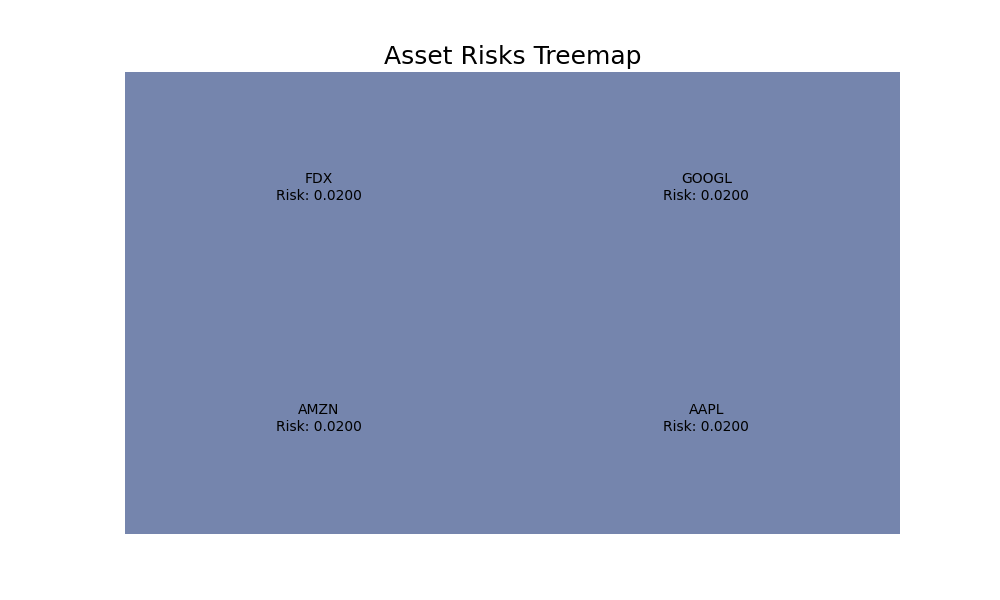
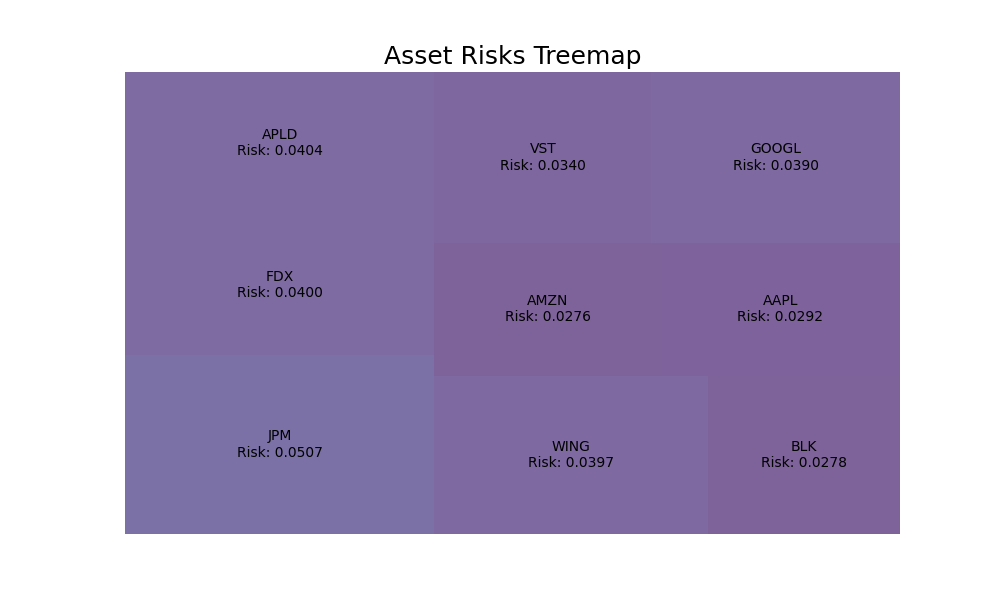
Almost

diff --git a/PortfolioOptimizer/src/heap_map.py b/PortfolioOptimizer/src/heap_map.py
@@ -277,6 +277,7 @@ import heapq
 import squarify  # Install this with `pip install squarify`
 import networkx as nx
 
+
 class HeapMap:
     def __init__(self, portfolio_values, asset_names):
         if portfolio_values.ndim != 3:
@@ -291,8 +292,13 @@ class HeapMap:
         risks = []
 
         for i, asset in enumerate(self.asset_names):
+            #daily_returns = np.diff(asset_values[i], axis=0) / asset_values[i][:-1]
             daily_returns = np.diff(asset_values[i], axis=0) / asset_values[i][:-1]
-            risk = np.std(daily_returns)
+            #print(f"Asset: {asset}, Daily Returns Sample: {daily_returns[:5]}")
+
+            #risk = np.std(daily_returns)
+            risk = np.std(daily_returns) + np.abs(np.mean(daily_returns))  # Combines volatility and average return
+            print(f"Asset: {asset}, Daily Returns Sample: {daily_returns[:5]}")
             risks.append((risk, asset))
 
         return risks
@@ -338,9 +344,49 @@ class HeapMap:
         print(f"Treemap graph saved as {filepath}")
         plt.show()
 
+    # def export_heap_tree(self, heap, filename="heap_tree.png"):
+    #     """
+    #     Exports a tree visualization of the heap.
+    #     """
+    #     os.makedirs("graphs", exist_ok=True)
+    #     filepath = os.path.join("graphs", filename)
+
+    #     G = nx.DiGraph()  # Directed graph for heap
+
+    #     # Create a binary tree from the heap
+    #     for i, (neg_risk, asset) in enumerate(heap):
+    #         G.add_node(i, label=f"{asset}\nRisk: {-neg_risk:.4f}")
+    #         left = 2 * i + 1
+    #         right = 2 * i + 2
+    #         if left < len(heap):
+    #             G.add_edge(i, left)
+    #         if right < len(heap):
+    #             G.add_edge(i, right)
+
+    #     # Draw the graph
+    #     pos = nx.nx_agraph.graphviz_layout(G, prog="dot")  # Use Graphviz for tree layout
+    #     labels = nx.get_node_attributes(G, "label")
+
+    #     plt.figure(figsize=(12, 8))
+    #     nx.draw(
+    #         G,
+    #         pos,
+    #         labels=labels,
+    #         with_labels=True,
+    #         node_size=2000,
+    #         node_color="lightblue",
+    #         font_size=8,
+    #         font_weight="bold",
+    #         arrows=False,
+    #     )
+    #     plt.title("Heap Tree Visualization", fontsize=18)
+    #     plt.savefig(filepath)
+    #     print(f"Heap tree graph saved as {filepath}")
+    #     plt.show()
+
     def export_heap_tree(self, heap, filename="heap_tree.png"):
         """
-        Exports a tree visualization of the heap.
+        Exports a tree visualization of the heap using spring layout.
         """
         os.makedirs("graphs", exist_ok=True)
         filepath = os.path.join("graphs", filename)
@@ -352,13 +398,13 @@ class HeapMap:
             G.add_node(i, label=f"{asset}\nRisk: {-neg_risk:.4f}")
             left = 2 * i + 1
             right = 2 * i + 2
-            if left < len(heap):
-                G.add_edge(i, left)
-            if right < len(heap):
-                G.add_edge(i, right)
+        if left < len(heap):
+            G.add_edge(i, left)
+        if right < len(heap):
+            G.add_edge(i, right)
 
-        # Draw the graph
-        pos = nx.nx_agraph.graphviz_layout(G, prog="dot")  # Use Graphviz for tree layout
+        # Use spring layout (no external dependencies required)
+        pos = nx.spring_layout(G, seed=42)
         labels = nx.get_node_attributes(G, "label")
 
         plt.figure(figsize=(12, 8))

diff --git a/PortfolioOptimizer/src/monte_carlo.py b/PortfolioOptimizer/src/monte_carlo.py
@@ -417,12 +417,35 @@ class MonteCarloSimulator:
         self.portfolio = portfolio
         self.initial_investment = initial_investment
 
+    # def simulate(self, num_simulations=500, time_horizon=365):
+    #     weights = np.array([1 / len(self.portfolio)] * len(self.portfolio))
+    #     asset_prices = np.array(list(self.portfolio.values()))
+    #     num_assets = len(self.portfolio)
+
+    #     #daily_returns = np.random.normal(0.001, 0.02, (time_horizon, num_assets, num_simulations))
+    #     daily_returns = np.random.normal(0.001, np.random.uniform(0.01, 0.05, num_assets).reshape(-1, 1, 1), (time_horizon, num_assets, num_simulations))
+
+    #     portfolio_values = np.zeros((time_horizon, num_simulations, num_assets))
+
+    #     for i in range(num_assets):
+    #         cumulative_returns = np.cumprod(1 + daily_returns[:, i, :], axis=0) - 1
+    #         portfolio_values[:, :, i] = asset_prices[i] * (1 + cumulative_returns)
+
+    #     return portfolio_values
+
     def simulate(self, num_simulations=500, time_horizon=365):
         weights = np.array([1 / len(self.portfolio)] * len(self.portfolio))
         asset_prices = np.array(list(self.portfolio.values()))
         num_assets = len(self.portfolio)
 
-        daily_returns = np.random.normal(0.001, 0.02, (time_horizon, num_assets, num_simulations))
+        # Generate daily returns with per-asset variability
+        asset_volatility = np.random.uniform(0.01, 0.05, num_assets)  # Volatility per asset
+        daily_returns = np.random.normal(
+            loc=0.001,  # Mean return
+            scale=asset_volatility[:, np.newaxis],  # np.newaxis# Broadcast volatility for time and simulations
+            size=(time_horizon, num_assets, num_simulations)
+    )
+
         portfolio_values = np.zeros((time_horizon, num_simulations, num_assets))
 
         for i in range(num_assets):
@@ -430,6 +453,7 @@ class MonteCarloSimulator:
             portfolio_values[:, :, i] = asset_prices[i] * (1 + cumulative_returns)
 
         return portfolio_values
+
 
     def export_simulation_graph(self, portfolio_values, filename="monte_carlo_simulation.png"):
         os.makedirs("graphs", exist_ok=True)

diff --git a/PortfolioOptimizer/src/risk_metrics.py b/PortfolioOptimizer/src/risk_metrics.py
@@ -112,6 +112,23 @@ class RiskMetrics:
         var = np.percentile(final_values, (1 - confidence_level) * 100)
         print(f"Value at Risk (VaR) at {confidence_level * 100}% confidence: {var:.3f}")
         return var
+    
+    def calculate_es(self, confidence_level=0.95):
+        """
+        Calculate Expected Shortfall (ES) at the given confidence level.
+        """
+        final_values = self.portfolio_values[-1, :].sum(axis=1)
+        var_threshold = np.percentile(final_values, (1 - confidence_level) * 100)
+        es = final_values[final_values <= var_threshold].mean()
+        print(f"Expected Shortfall (ES) at {confidence_level * 100}% confidence: {es:.3f}")
+        return es
+    
+    def test_var():
+        simulated_data = np.random.normal(1000, 100, (250, 500, 10))  # Example mock data
+        risk_metrics = RiskMetrics(simulated_data)
+        assert risk_metrics.calculate_var(0.95) > 0  # VaR should be positive for valid data
+
+    
 
     def plot_distribution(self, filename="final_portfolio_distribution.png"):
         final_values = self.portfolio_values[-1, :].sum(axis=1)

diff --git a/PortfolioOptimizer/main.py b/PortfolioOptimizer/main.py
@@ -290,7 +290,7 @@ from src.heap_map import HeapMap
 
 if __name__ == "__main__":
     fetcher = StockFetcher()
-    tickers = ["AAPL", "GOOGL", "AMZN", "FDX"]
+    tickers = ["AAPL", "GOOGL", "AMZN", "FDX", "BLK", "JPM", "APLD", "VST", "WING"]
     initial_investment = 10000
 
     portfolio_prices = fetcher.fetch_portfolio_prices(tickers)
